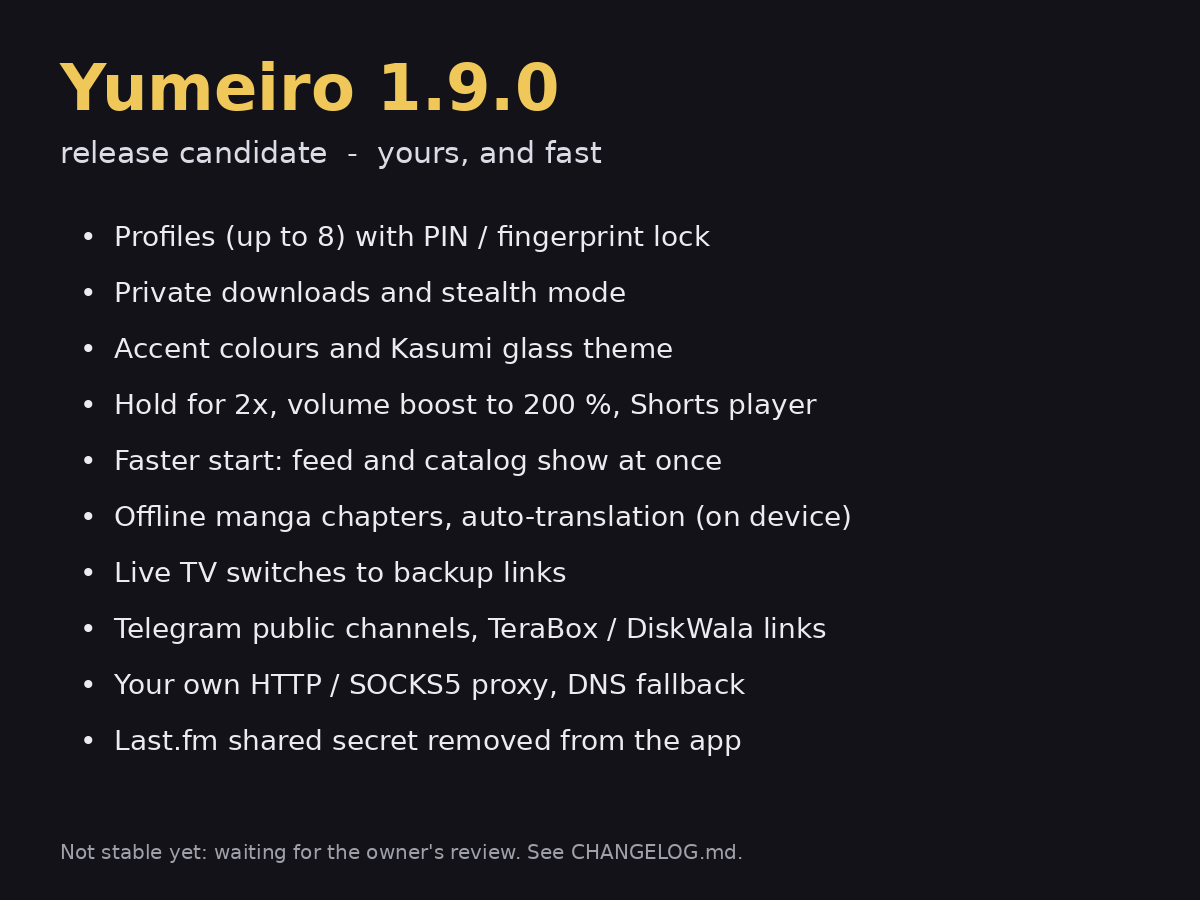
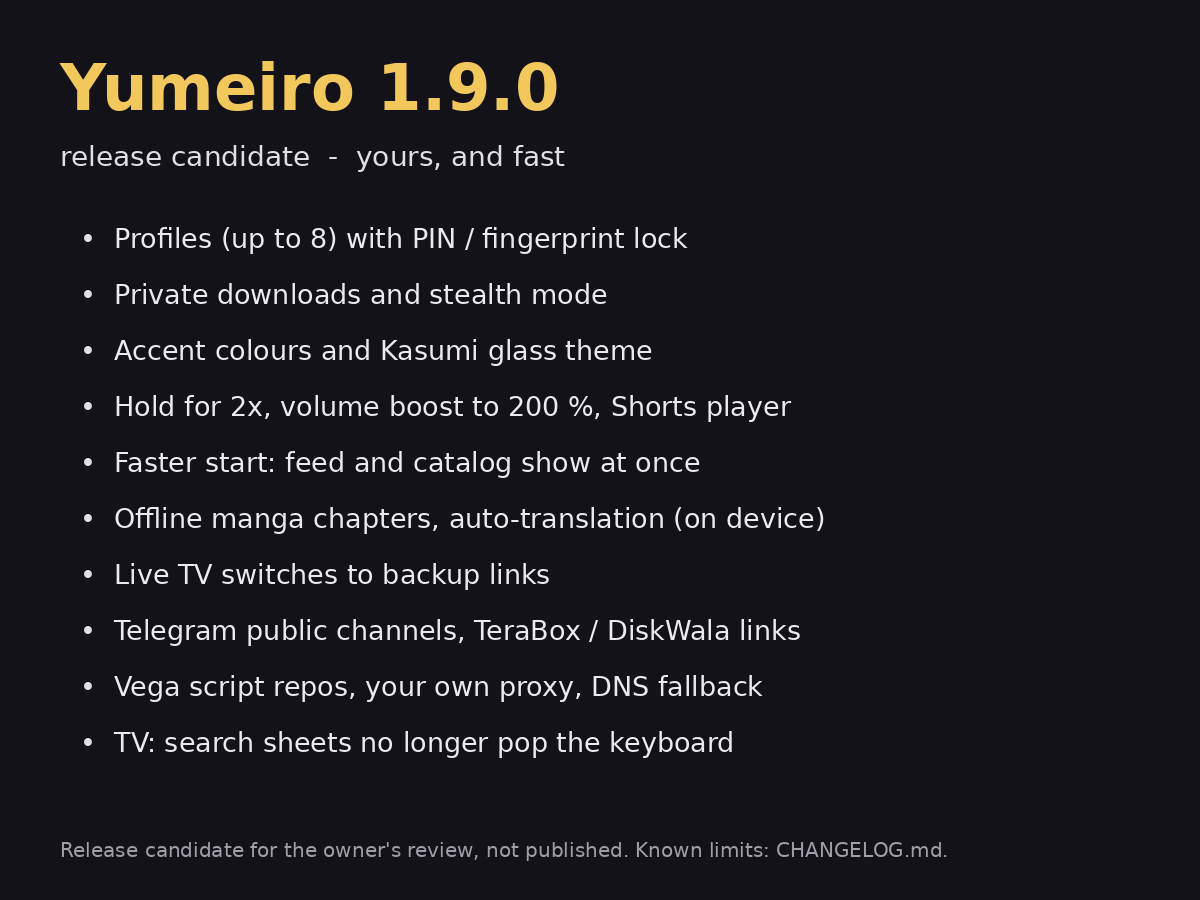
docs(images): 1.9.0 release images from the device runs; changelog card without "stable"
Cause: handover step 6: one image per headline feature with real content, at least one TV and
one low-RAM shot, plus the changelog card. The old card's footer said "Not stable yet".
Fix: 10 images copied from runs 44674391443, 44676237678, 44676427965, 44673996183, 44598214395
(file, feature, test, run in docs/assets/final/README.md). Private downloads has no image: the
screen is FLAG_SECURE, every capture is black (said in the README, not faked). Card redrawn by
scripts/changelog_card.py. README shows six of the images; CHANGELOG Fixes lists the TV keyboard
fix (FINAL-39) and the FFmpeg AC-3 fallback (FINAL-30).
Tests: n/a. Evidence: the run IDs above (all PASS).
Timestamp: 2026-11-20 (Asia/Dhaka)
Ledger: docs/assets/final/README.md.

diff --git a/scripts/changelog_card.py b/scripts/changelog_card.py
@@ -1,0 +1,18 @@
+"""Draws docs/assets/final/changelog-card-1.9.0.png from the 1.9.0 headline list (CHANGELOG.md)."""
+from PIL import Image, ImageDraw, ImageFont
+F = "/usr/share/fonts/truetype/dejavu/DejaVuSans"
+W, H = 1200, 900
+im = Image.new("RGB", (W, H), (19, 18, 24)); d = ImageDraw.Draw(im)
+d.text((60, 50), "Yumeiro 1.9.0", font=ImageFont.truetype(F + "-Bold.ttf", 64), fill=(242, 199, 92))
+d.text((60, 140), "release candidate  -  yours, and fast", font=ImageFont.truetype(F + ".ttf", 28), fill=(225, 222, 230))
+items = ["Profiles (up to 8) with PIN / fingerprint lock", "Private downloads and stealth mode",
+         "Accent colours and Kasumi glass theme", "Hold for 2x, volume boost to 200 %, Shorts player",
+         "Faster start: feed and catalog show at once", "Offline manga chapters, auto-translation (on device)",
+         "Live TV switches to backup links", "Telegram public channels, TeraBox / DiskWala links",
+         "Vega script repos, your own proxy, DNS fallback", "TV: search sheets no longer pop the keyboard"]
+f = ImageFont.truetype(F + ".ttf", 27)
+for i, t in enumerate(items):
+    y = 222 + i * 56; d.text((80, y), "\u2022", font=f, fill=(225, 222, 230)); d.text((114, y), t, font=f, fill=(236, 234, 240))
+d.text((60, 838), "Release candidate for the owner's review, not published. Known limits: CHANGELOG.md.",
+       font=ImageFont.truetype(F + ".ttf", 20), fill=(160, 158, 168))
+im.save("docs/assets/final/changelog-card-1.9.0.png")

diff --git a/docs/assets/final/README.md b/docs/assets/final/README.md
@@ -1,6 +1,27 @@
 # Final images: Yumeiro 1.9.0 release candidate
 
-Screenshots taken by the device tests on CI emulators (labelled emulator, not real hardware), one per shipped feature that has a screen in the tests, plus a TV shot, a low-RAM shot and the changelog card. Queued features have no image. Features without a test screenshot are covered by the per-feature rows in docs/MASTER-CHECKLIST-FINAL.md.
+Screenshots taken by the device tests on CI emulators (labelled emulator, not real hardware). Content in the shots is
+test data (a local test clip, a MockWebServer Vega repository, a fake Telegram channel); nothing is a mock-up of an
+unshipped feature. Queued features have no image.
+
+## Headline features
+
+| File | Feature | Shows | Taken by |
+|---|---|---|---|
+| tv34-profiles-who-is-watching.png | Profiles and locks | "Who's watching?" on TV, a locked "Me" and a "Kid" profile | ProfilesDeviceTest, tv-api34 emulator (device-check run 44674391443) |
+| lowram-profiles-who-is-watching.png | Profiles and locks (low-RAM) | the same screen on the 2 GB phone, light theme | ProfilesDeviceTest, api33-lowram emulator (run 44676427965) |
+| tv34-profiles-pin-pad.png | Profiles and locks | PIN pad with "Forgot?" | ProfilesDeviceTest, tv-api34 emulator (run 44674391443) |
+| (none) | Private downloads | no image: Private is screenshot-blocked on purpose (FLAG_SECURE), so every capture of it is black (runs 44673996183, 44674391443). Covered by ProfilesDeviceTest (Pass on all four targets) and OMT-45 | — |
+| tv34-accent-ao.png | Accent colours | Appearance card with the Ao (blue) accent selected | ProfilesDeviceTest (accentTapChangesTheTheme), tv-api34 emulator (run 44676237678) |
+| phone-hold-for-2x.png | Hold for 2x | player while the finger is held: the "2x »" pill at the top | LocalPlayerDeviceTest k_, api36 emulator (run 44673996183) |
+| phone-dns-fallback.png | DNS fallback | Settings → Network with "Automatic DNS fallback" on (restored after the shot) | ReleaseShotsDeviceTest b_, api36 emulator (run 44673996183) |
+| tv34-proxy.png | Own proxy | Proxy card, HTTP, an address typed (not saved) | ReleaseShotsDeviceTest a_, tv-api34 emulator (run 44676237678) |
+| phone-telegram-channel.png | Telegram and share links | a public channel (test data from the mock server), no login | TelegramPublicDeviceTest, api36 emulator (run 44598214395) |
+| lowram-script-repos.png | Script repos | a Vega repository (MockWebServer, localhost) with 2 providers available | ReleaseShotsDeviceTest c_, api33-lowram emulator (run 44673996183) |
+| tv34-filter-sheet-no-keyboard.png | TV keyboard fix (FINAL-39) | "Show videos from" sheet open on TV, no keyboard on screen | PinnedExtensionsDeviceTest, tv-api34 emulator (run 44674391443) |
+| changelog-card-1.9.0.png | Changelog card | the 1.9.0 headline list | `python3 scripts/changelog_card.py` (from CHANGELOG.md) |
+
+## Earlier final-test images
 
 | File | Shows | Taken by |
 |---|---|---|
@@ -18,4 +39,3 @@ Screenshots taken by the device tests on CI emulators (labelled emulator, not re
 | tv34-privacy-clear.png | TV (Android 14): privacy, clear watch history | DialogsDeviceTest, tv-api34 emulator (device-check run 44640840216) |
 | tv34-crash-reports.png | TV (Android 14): crash reports | CrashUiDeviceTest, tv-api34 emulator (device-check run 44640840216) |
 | lowram-feed-home.png | Low-RAM phone (Android 13): Home feed | FeedDeviceTest, api33-lowram emulator (device-check run 44617327290) |
-| changelog-card-1.9.0.png | Changelog card | generated from CHANGELOG.md |

diff --git a/README.md b/README.md
@@ -46,6 +46,19 @@ Full notes: [CHANGELOG.md](CHANGELOG.md). Per-feature test results: [docs/MASTER
 | **Manga offline** | Saved chapters open without the source; on-device translation in the reader. |
 | **Safer by design** | The app no longer carries Yumeiro's Last.fm shared secret. Built-in Last.fm sign-in stays off until Yumeiro Cloud (which will sign those calls) is live; your own Last.fm key still works. |
 
+<p align="center">
+  <img src="docs/assets/final/tv34-profiles-who-is-watching.png" width="380" alt="Who's watching? on Yumeiro TV" />
+  <img src="docs/assets/final/tv34-filter-sheet-no-keyboard.png" width="380" alt="TV filter sheet without the keyboard" />
+</p>
+<p align="center">
+  <img src="docs/assets/final/lowram-profiles-who-is-watching.png" width="180" alt="Who's watching? on a phone" />
+  <img src="docs/assets/final/phone-hold-for-2x.png" width="180" alt="Hold for 2x in the player" />
+  <img src="docs/assets/final/phone-telegram-channel.png" width="180" alt="A public Telegram channel" />
+  <img src="docs/assets/final/lowram-script-repos.png" width="180" alt="Vega script repository" />
+</p>
+
+Screenshots from the CI emulators with test data. More: [docs/assets/final](docs/assets/final/README.md).
+
 ## Release status
 
 - **1.9.0 is a release candidate**, built for the owner's review. It is not published yet; the newest published

diff --git a/CHANGELOG.md b/CHANGELOG.md
@@ -41,6 +41,9 @@ docs/UNVERIFIED-QUEUE.md and docs/OWNER-MANUAL-TESTS.md).
 ### Fixes
 - Notices reach phones whose notification subscription failed (server side: works once the Yumeiro Cloud update is
   deployed; it is not deployed yet).
+- Android TV: sheets with a search box (Yumix "Show videos from", extension and market filters) no longer open the
+  full-screen keyboard by themselves; press OK on the box to type, one Back closes the sheet.
+- Android TV boxes without an AC-3 / E-AC-3 decoder play those audio tracks through FFmpeg.
 - "Show videos from" search shows every match; YouTube on TV shows a grid; M3U logos in single quotes and relative
   channel links; "1 track"; last-backup time kept.
 
